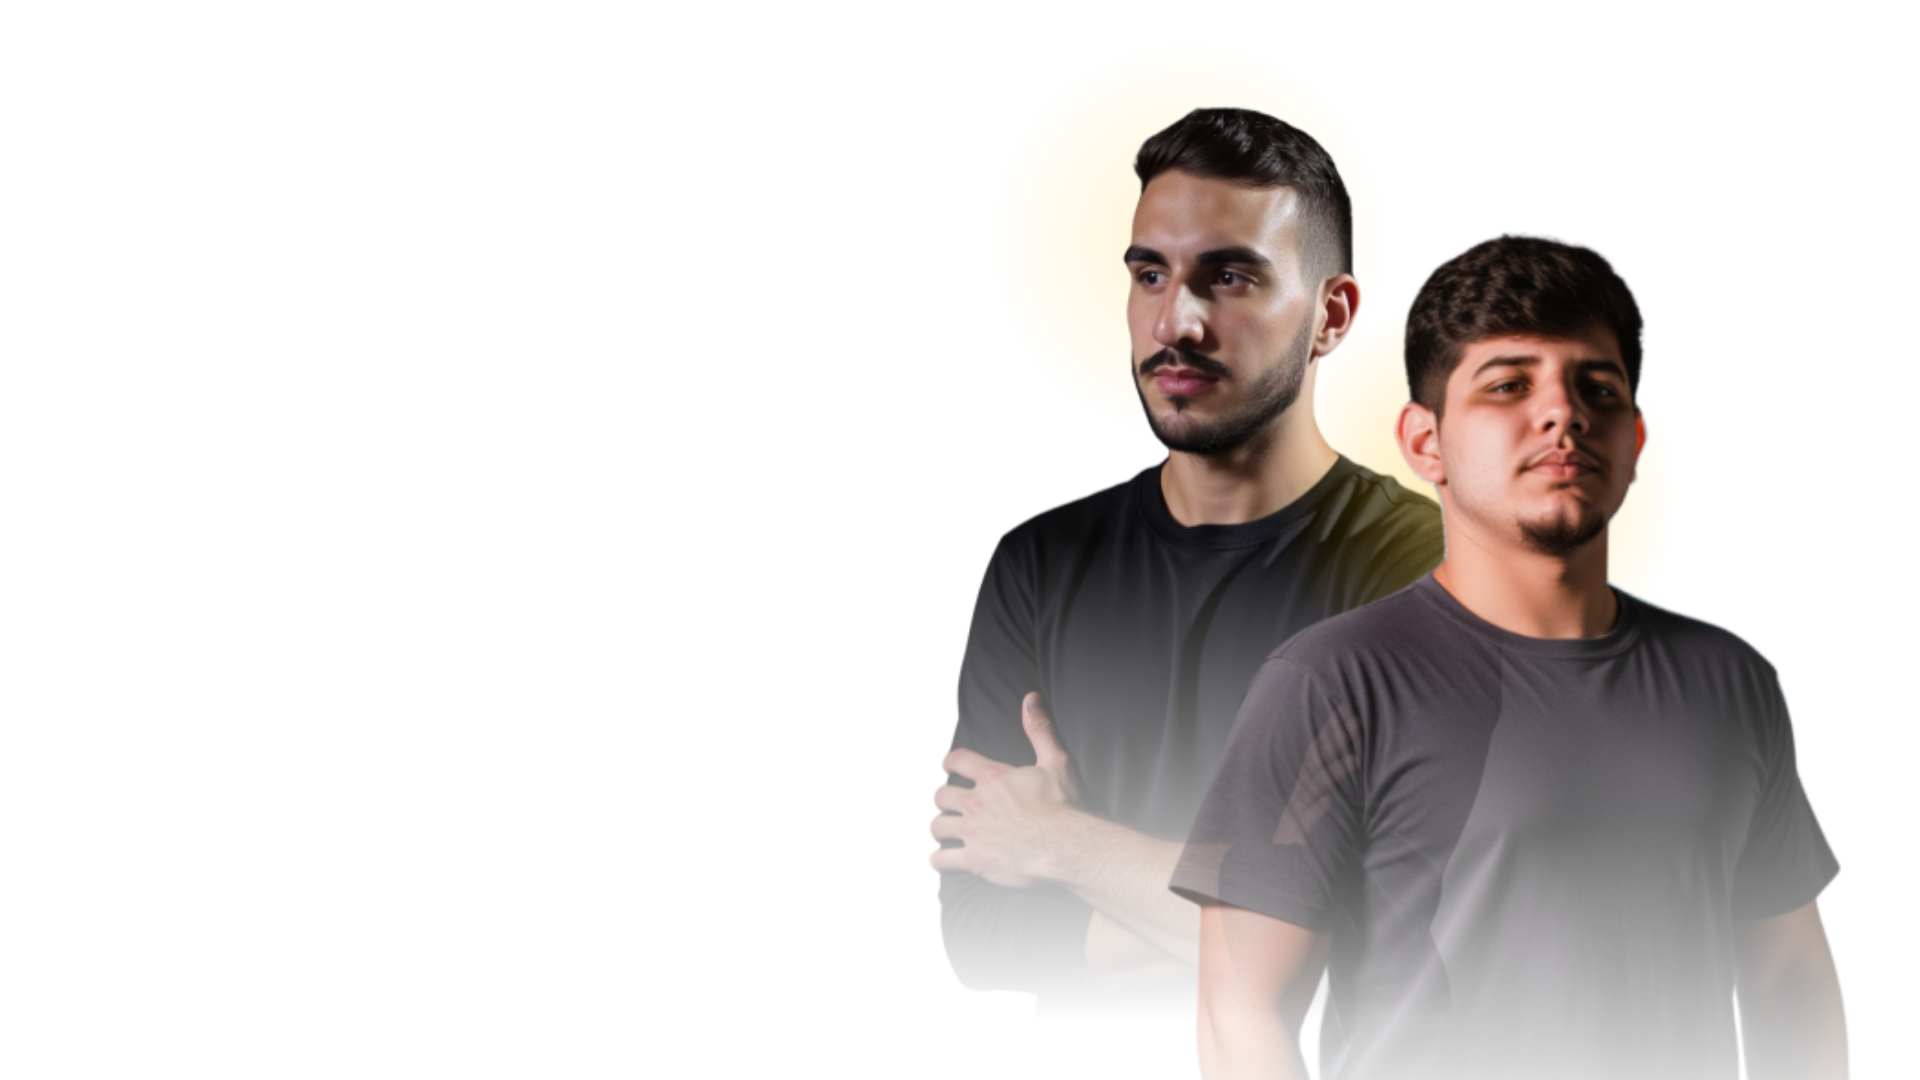
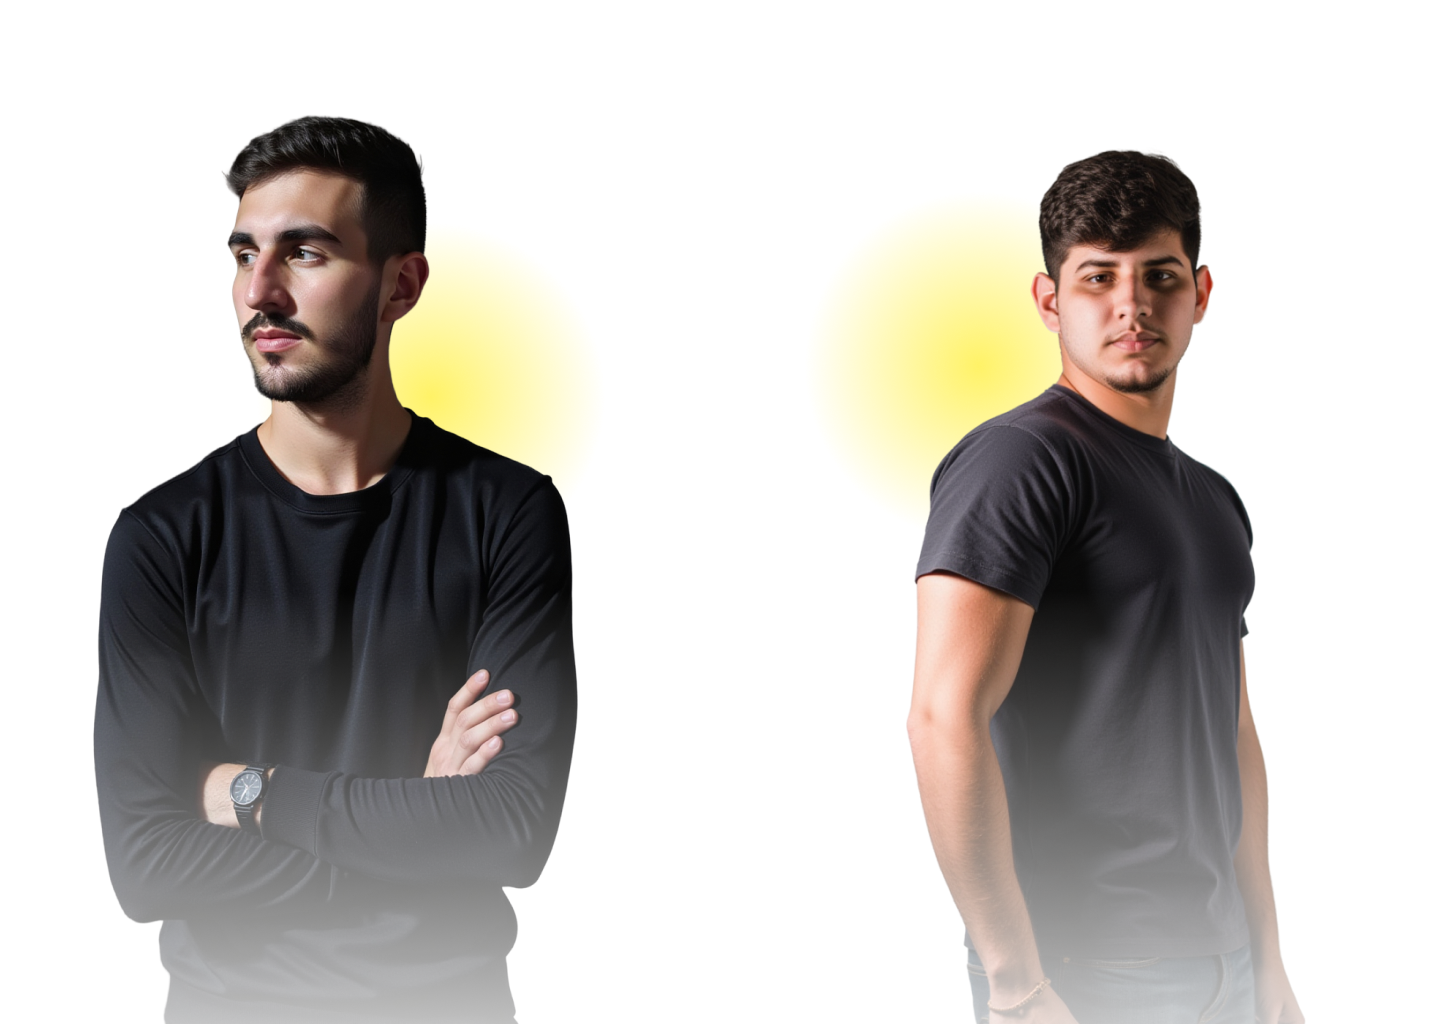
refactor hero image

diff --git a/src/components/Hero.tsx b/src/components/Hero.tsx
@@ -133,8 +133,8 @@ export const Hero = () => {
                     />
 
                     {/* Gradiente Escuro no Mobile para garantir leitura do texto */}
-                    <div className="absolute inset-0 bg-black/50 z-10" />
-                    <div className="absolute inset-0 bg-gradient-to-t from-[#111111] via-[#111111]/40 to-transparent z-10" />
+                    <div className="absolute inset-0 bg-black/30 z-10" />
+                    <div className="absolute inset-0 bg-gradient-to-t from-[#111111]/70 via-[#111111]/30 to-transparent z-10" />
                 </div>
             </div>
 
@@ -158,8 +158,8 @@ export const Hero = () => {
                                         className={`absolute inset-0 w-full h-full object-cover ${slide.align}`}
                                     />
                                     {/* Gradientes Desktop */}
-                                    <div className="absolute inset-0 bg-gradient-to-r from-black via-black/70 to-transparent/20 z-10" />
-                                    <div className="absolute bottom-0 left-0 w-full h-64 bg-gradient-to-t from-[#111111] via-[#111111]/80 to-transparent z-10" />
+                                    <div className="absolute inset-0 bg-gradient-to-r from-black/40 via-black/50 to-transparent/20 z-10" />
+                                    <div className="absolute bottom-0 left-0 w-full h-64 bg-gradient-to-t from-[#111111]/70 via-[#111111]/40 to-transparent z-10" />
                                 </div>
                             </CarouselItem>
                         ))}
